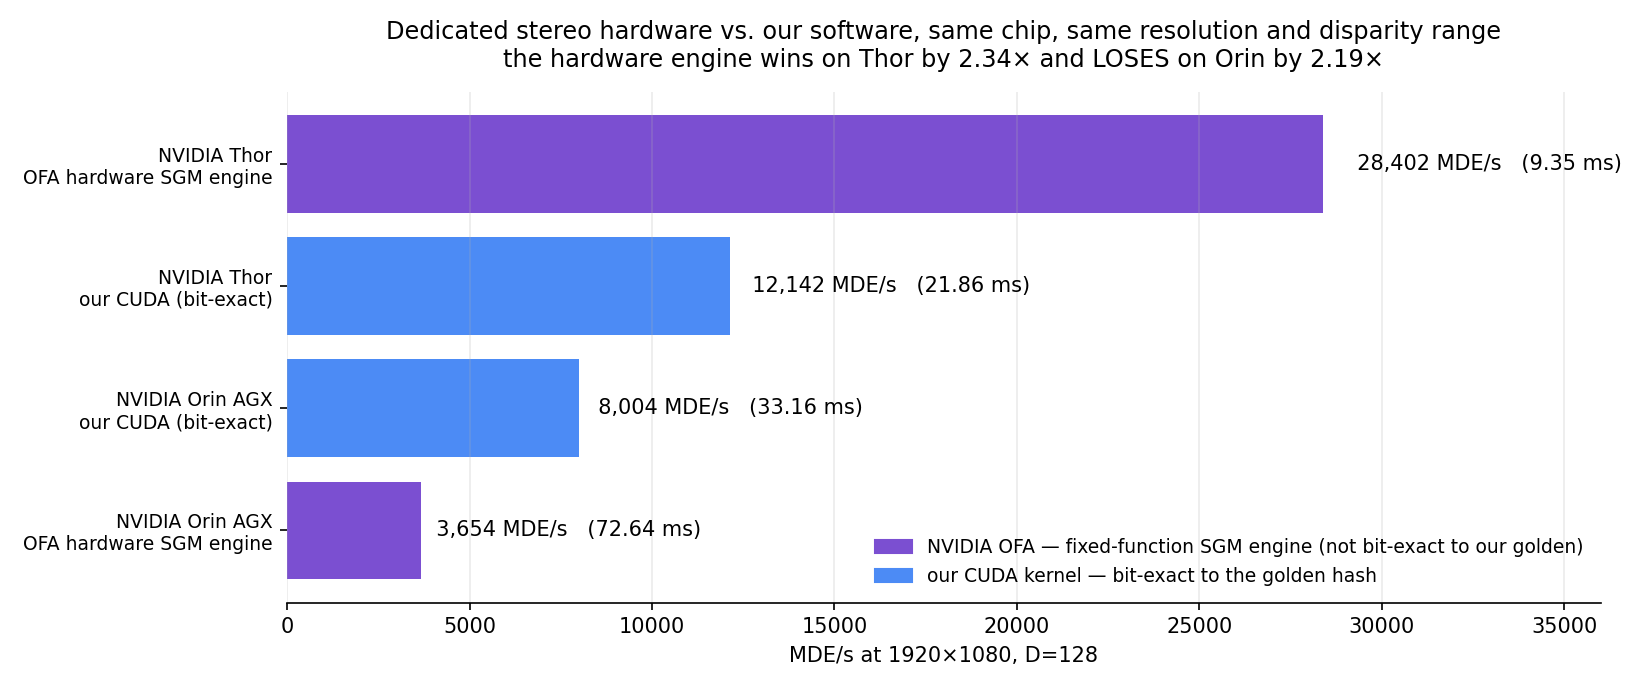
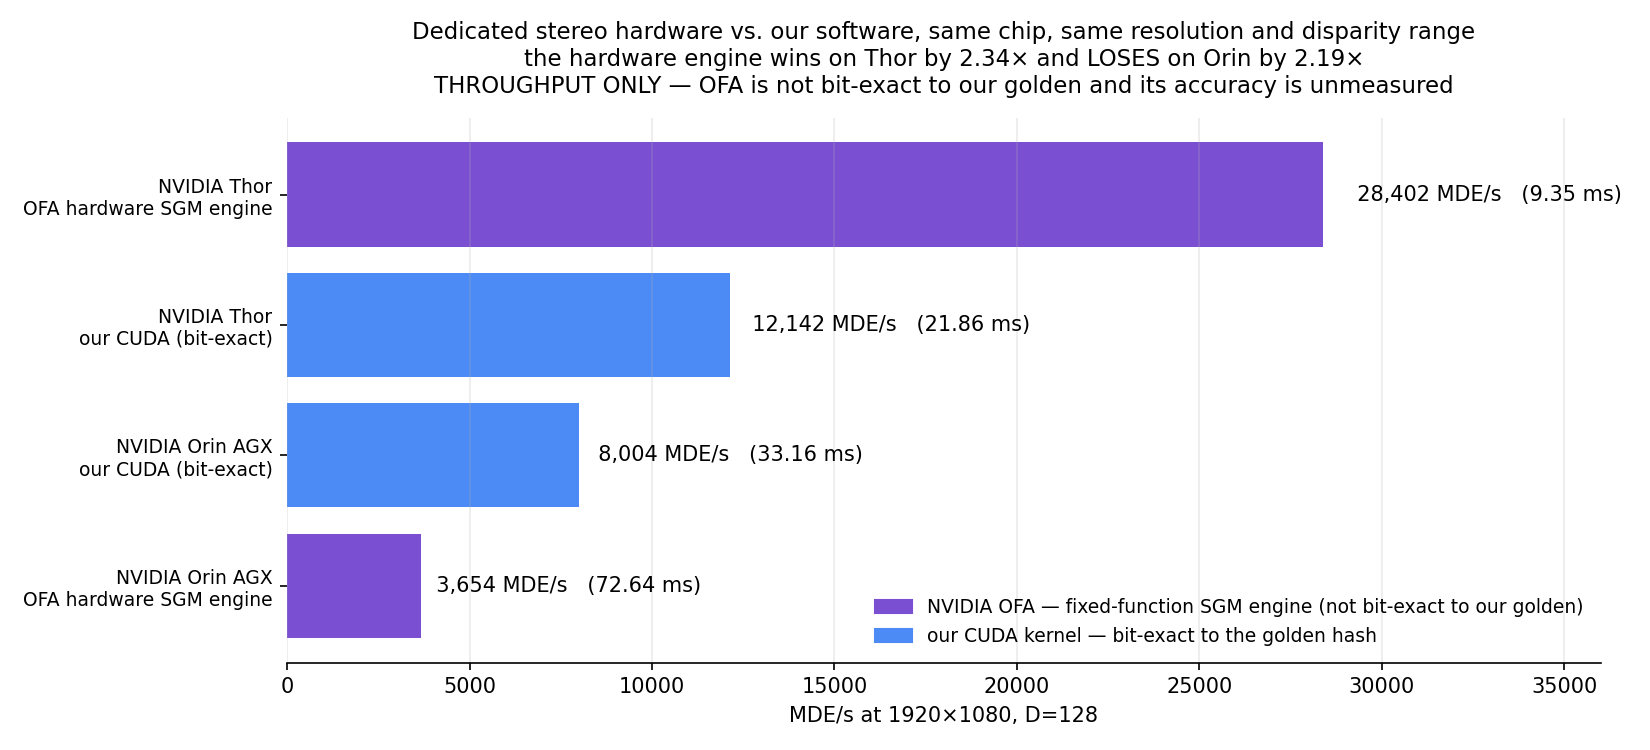
docs: carry the review's corrections into the deck and the hardware figure
The adversarial review landed in REPORT.md and README.md but not into the two
artefacts most likely to be shown to someone: the deck and the comparison
figure both still presented the 2.34x without its caveats. A correction that
only reaches the long-form document and not the slide is not a correction.

Deck OFA slides now state that the accuracy claim is WITHDRAWN (our SGM
scores 2.6% bad>1px / MAE 0.45 against ground truth; OFA aligns under no
simple descaling, so its accuracy is unmeasured and the 2.34x is throughput
only), that VPI defaulted to 8 paths against our 4 and that this was measured
rather than assumed (9.42 ms at 8 paths vs 9.85 at 4 -- path-count
independent), and that the timed regions differ by under 5% in OFA's favour.

The hardware figure's title now says THROUGHPUT ONLY on its face, because a
figure travels without its caption and the main results chart's "every bar
bit-exact" does not extend to these bars.

diff --git a/scripts/make_deck.py b/scripts/make_deck.py
@@ -58,9 +58,14 @@ UNITS = [
    "DEDICATED STEREO HARDWARE, and it beats our tuned CUDA on the same chip",
    "by 2.34x (9.35 ms vs 21.86 ms at 1920x1080 D=128).",
    "NOT bit-exact to our golden: VPI's SGM is a different implementation with",
-   "its own census, penalties and confidence output. This is a throughput",
-   "comparison at matched resolution and disparity range, not the same test.",
-   "OFA accepts maxDisparity of 128 or 256 ONLY.",
+   "its own census, penalties and confidence output. Throughput comparison at",
+   "matched resolution and D -- NOT the same test, and NOT a quality claim.",
+   "🔴 ACCURACY WITHDRAWN. Scored against ground truth our SGM gets 2.6% bad>1px",
+   "(MAE 0.45); OFA aligns under no simple descaling, so its accuracy is",
+   "UNMEASURED and this 2.34x is throughput only.",
+   "VPI defaults to includeDiagonals=1, so OFA ran 8 paths against our 4. Measured,",
+   "not assumed: OFA costs 9.42 ms at 8 paths and 9.85 at 4 -- path-count",
+   "independent. The timing stands and OFA delivers an 8-path result in our time.",
    "⚠ It defaults to downscaleFactor=2, which emits a 960x540 map from 1080p",
    "input in 4.14 ms. Quoting that as a 1080p figure overstates it by 2.3x."]),
  ("NVIDIA Orin AGX OFA","HW",  72.637, "Fixed-function SGM engine, VPI 3.2.4  |  1080p D=128, downscaleFactor=1", [
@@ -71,7 +76,9 @@ UNITS = [
    "generational jump than the 1.5x between the two GPUs.",
    "Taken together these two rows are the interesting result: whether dedicated",
    "hardware beats a tuned kernel is a property of the generation, not of the",
-   "idea of dedicated hardware."]),
+   "idea of dedicated hardware.",
+   "Same caveats as the Thor row: not bit-exact, accuracy unmeasured, and the",
+   "timed region excludes format conversion where ours is end-to-end (<5%)."]),
  ("Cortex-A55 x6",     "CPU", 341.30, "i.MX 95 FRDM, 1.8 GHz, NEON  |  single core: 1,588.74 ms = 84 MDE/s", [
    "The reference platform this project is anchored to, and the slowest CPU here.",
    "Scales 4.65x from 1 to 6 cores (1,588.74 -> 341.30 ms) -- that spread is also",

diff --git a/scripts/make_hw_chart.py b/scripts/make_hw_chart.py
@@ -18,7 +18,7 @@ ROWS = [
  ("NVIDIA Orin AGX", "OFA hardware SGM engine", 72.637, "hw"),
 ]
 C = {"hw": "#7B4FD1", "sw": "#4C8BF5"}
-fig, ax = plt.subplots(figsize=(11, 4.6))
+fig, ax = plt.subplots(figsize=(11, 5.0))
 labels = [f"{b}\n{l}" for b, l, _, _ in ROWS]
 for i, (b, l, ms, k) in enumerate(ROWS):
     mde = W*H*D/ms/1000
@@ -28,8 +28,9 @@ ax.set_yticks(range(len(ROWS))); ax.set_yticklabels(labels, fontsize=9)
 ax.invert_yaxis(); ax.set_xlim(0, 36000)
 ax.set_xlabel("MDE/s at 1920×1080, D=128", fontsize=10)
 ax.set_title("Dedicated stereo hardware vs. our software, same chip, same resolution and disparity range\n"
-             "the hardware engine wins on Thor by 2.34× and LOSES on Orin by 2.19×",
-             fontsize=11.5, pad=12)
+             "the hardware engine wins on Thor by 2.34× and LOSES on Orin by 2.19×\n"
+             "THROUGHPUT ONLY — OFA is not bit-exact to our golden and its accuracy is unmeasured",
+             fontsize=11, pad=12)
 ax.legend(handles=[Patch(color=C["hw"], label="NVIDIA OFA — fixed-function SGM engine (not bit-exact to our golden)"),
                    Patch(color=C["sw"], label="our CUDA kernel — bit-exact to the golden hash")],
           loc="lower right", frameon=False, fontsize=9)
